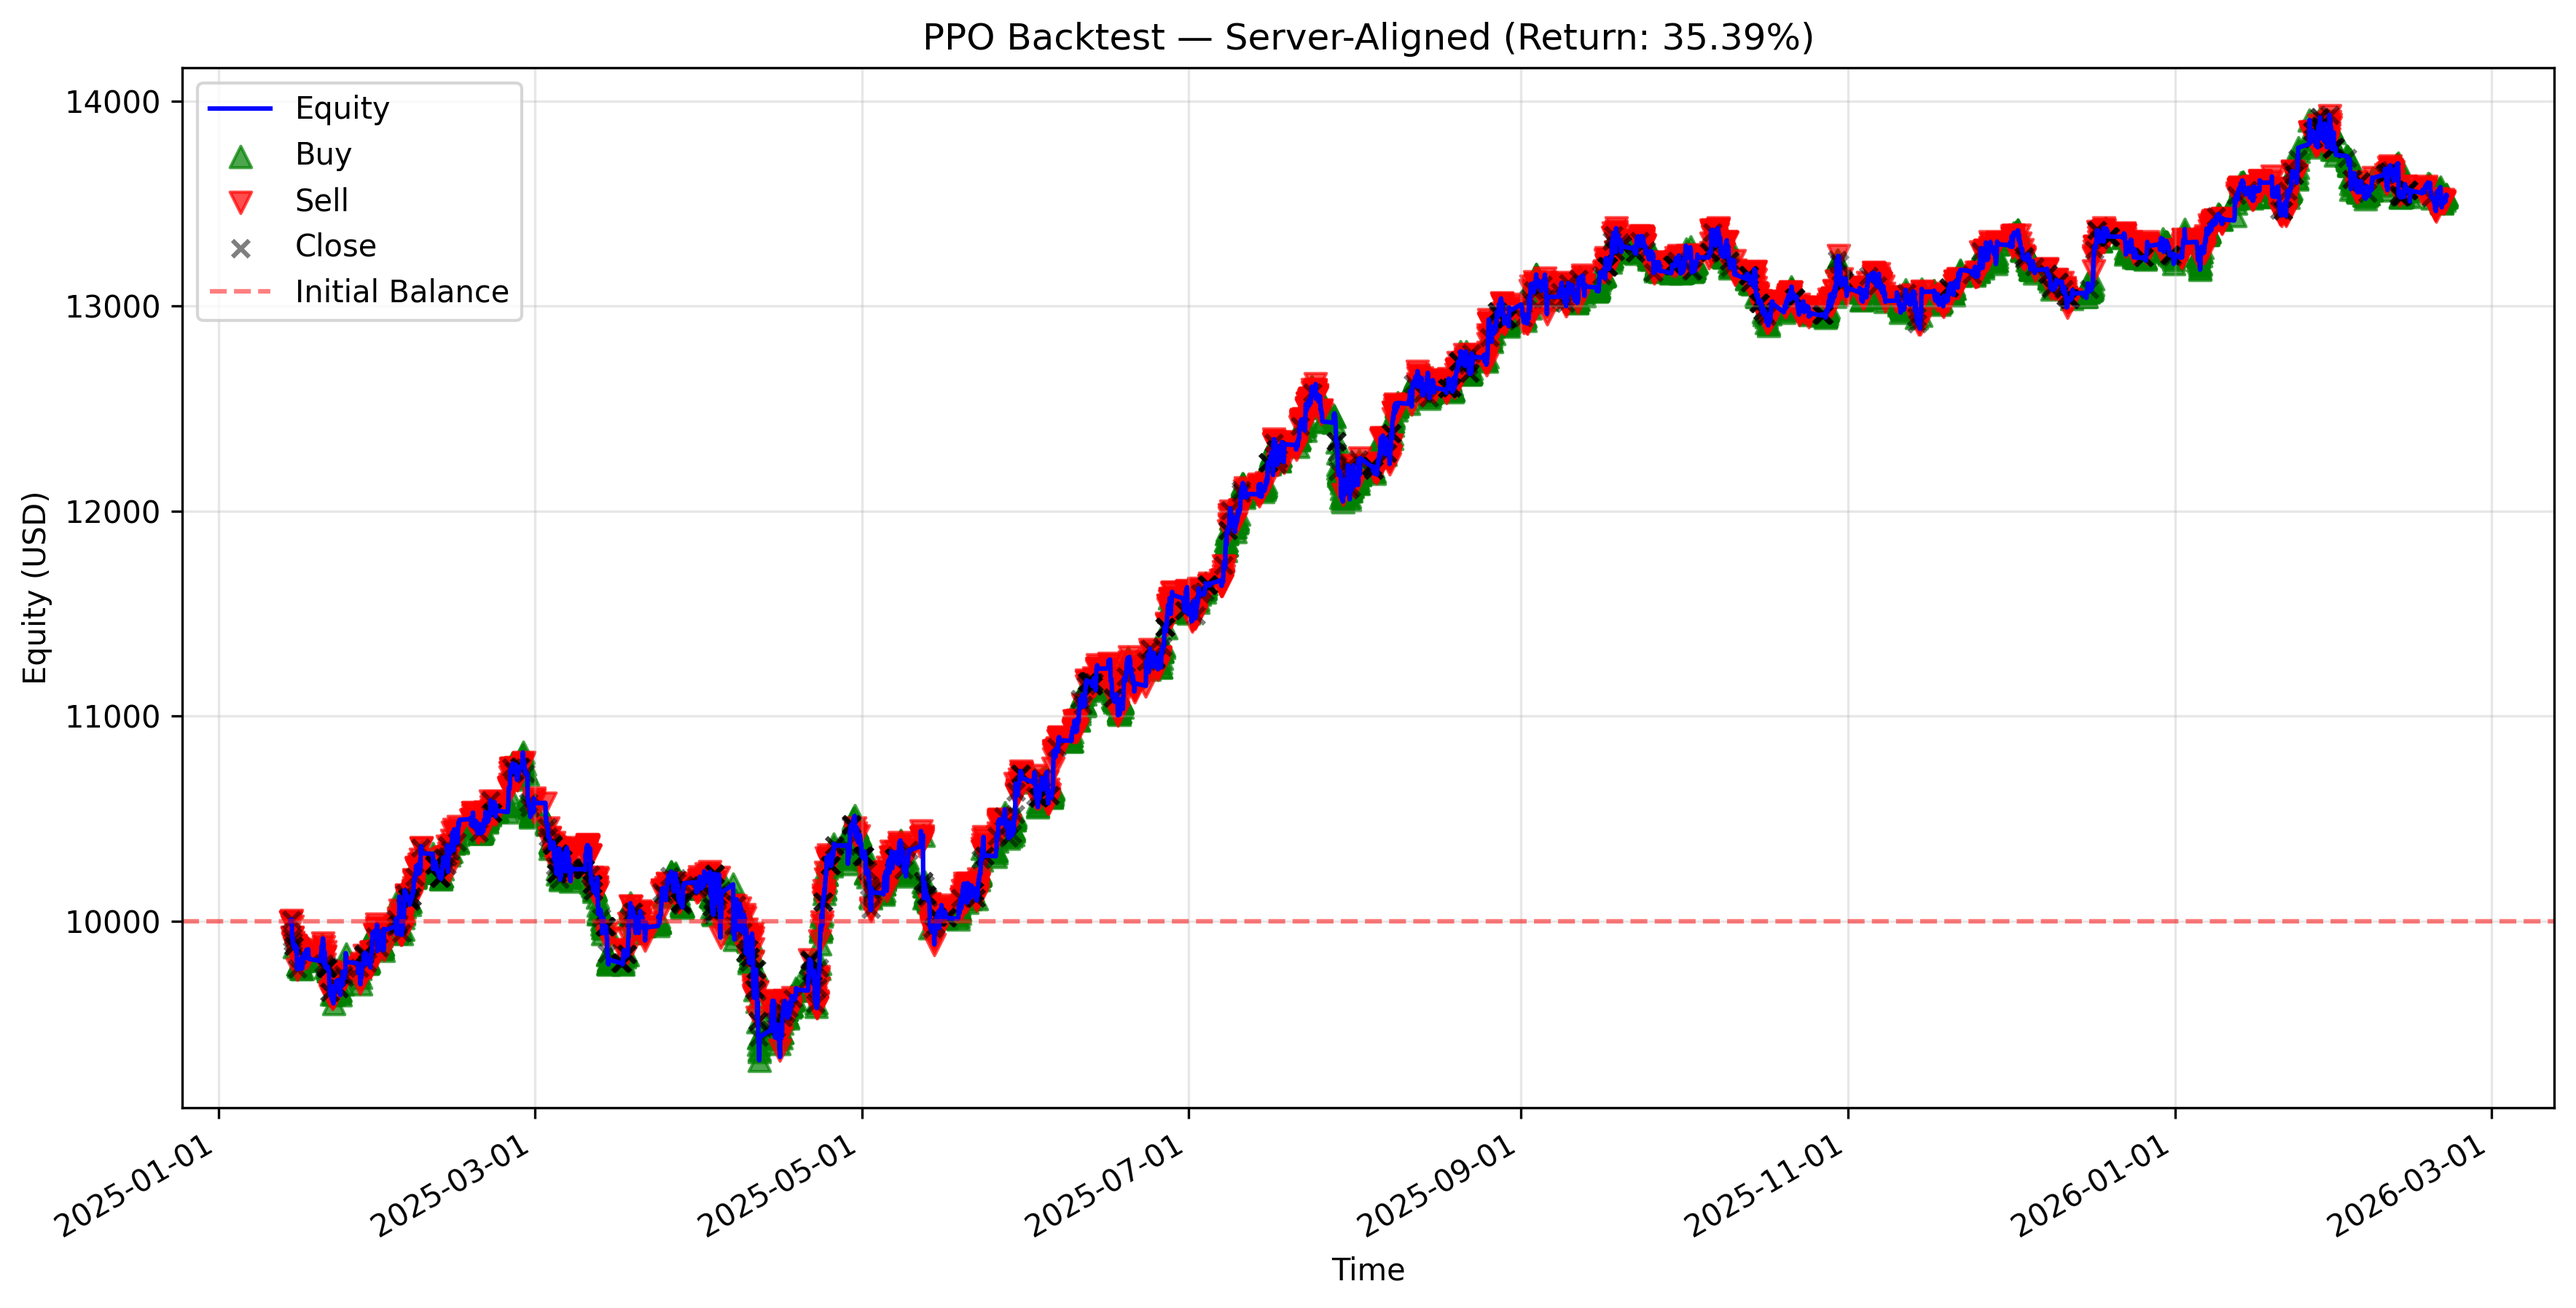
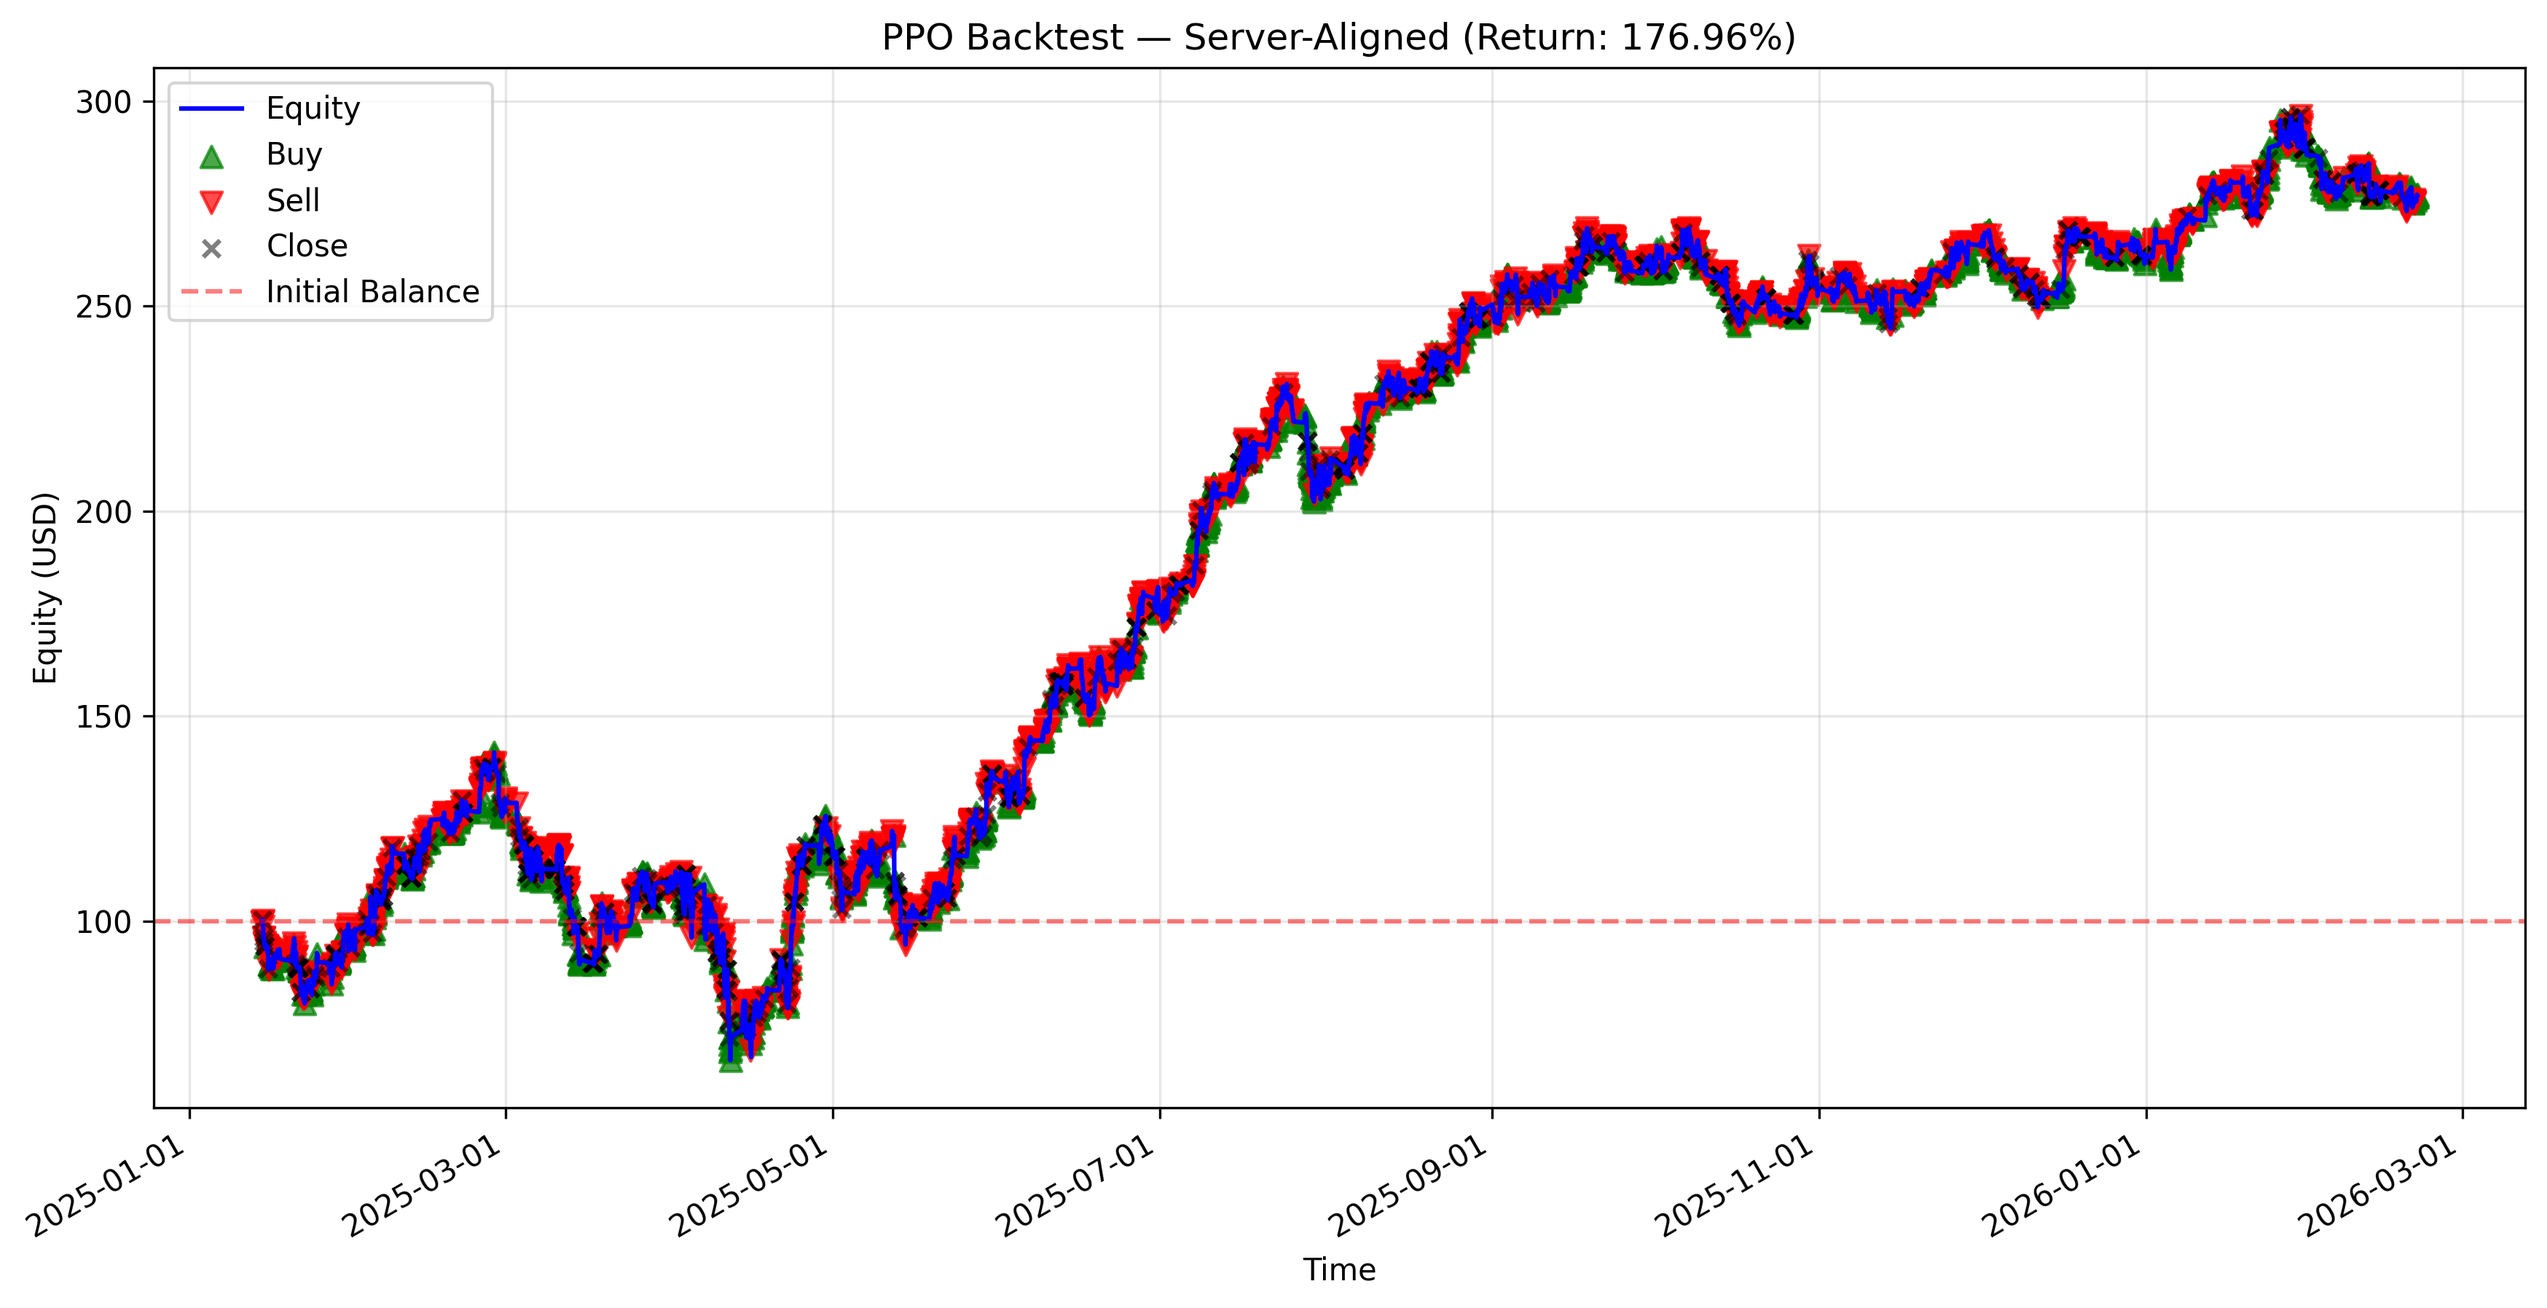
add adx

diff --git a/train/rl/test_ppo.py b/train/rl/test_ppo.py
@@ -19,7 +19,7 @@ from env_trading import TradingEnv
 # CONFIG (must match zmq_bridge_server.py)
 # ==================================================
 WINDOW_SIZE = 20
-INITIAL_BALANCE = 10000
+INITIAL_BALANCE = 100
 PIP_SIZE = 0.0001
 PIP_VALUE = 10.0
 SL_PIPS = 50
